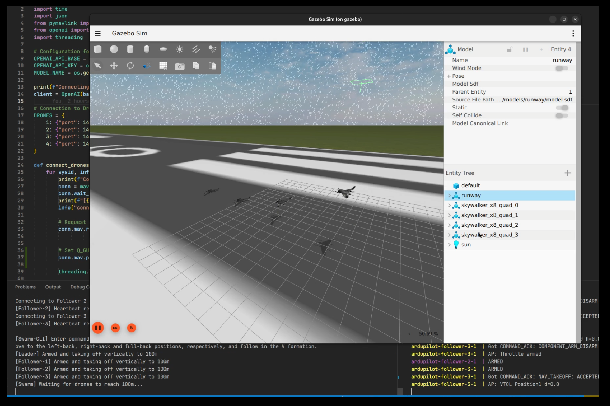
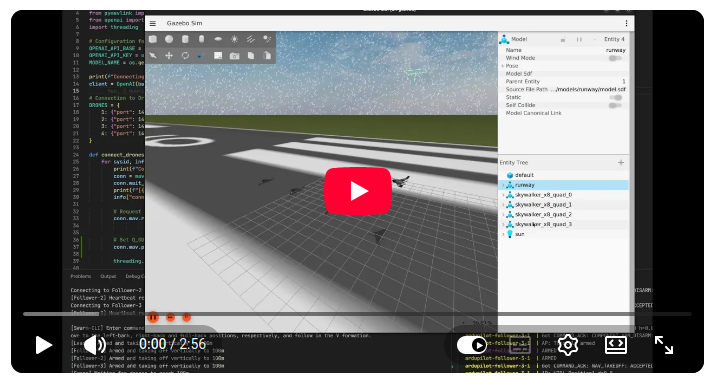
docs: update README with installation commands for dependencies

diff --git a/README.md b/README.md
@@ -24,7 +24,15 @@ Below, only a summary of how to perform the building is provided.
 Run all commands in the host PC. ArduPilot is cross-compiled for T3 Gemstone boards using T3 Gemstone Toolchains. 
 You can select which vehicle you want to compile by changing the `VEHICLE` variable defined inside `Taskfile.yml`.
 
-##### 1. Clone the project
+##### 1. Install Dependencies
+
+```bash
+sudo apt update
+sudo apt install git curl build-essential python3-venv binutils-aarch64-linux-gnu
+./setup.sh
+```
+
+##### 2. Clone the project
 
 ```bash
 git clone https://github.com/t3gemstone/ardupilot
@@ -32,13 +40,20 @@ cd ardupilot
 git submodule update --init --recursive
 ```
 
-##### 2. Install Taskfile
+##### 3. Install Taskfile
+
+```bash
+curl --location https://github.com/go-task/task/releases/download/v3.49.1/task_3.49.1_linux_amd64.deb --output ~/task_3.49.1_linux_amd64.deb
+sudo apt install ~/task_3.49.1_linux_amd64.deb
+```
+
+or
 
 ```bash
 sh -c "$(curl --location https://taskfile.dev/install.sh)" -- -d -b /usr/local/bin
 ```
 
-##### 3. Compile the project
+##### 4. Compile the project
 
 ```bash
 VEHICLE=plane task build
@@ -129,34 +144,6 @@ task sitl-start
 The Docker Compose configuration will automatically pick up the new environment variables and restart the services with
 the updated settings.
 
-### Available Models
-
-| Model                                 | Image                                                                                                                       | SITL_VEHICLE | SITL_FRAME                  | SITL_WORLD                   |
-|---------------------------------------|-----------------------------------------------------------------------------------------------------------------------------|--------------|-----------------------------|------------------------------|
-| **BiCopter**                          | ![BiCopter](https://github.com/ArduPilot/SITL_Models/assets/24916364/0f41a75e-f356-4812-9407-9c19ec6f76a4)                  | ArduCopter   | gazebo-bicopter             | bicopter_runway.sdf          |
-| **Hexapod Copter**                    | ![Hexapod Copter](https://user-images.githubusercontent.com/24916364/225340320-9aa31fe2-4602-4036-ba6b-491f72097c01.jpg)    | ArduCopter   | gazebo-hexapod-copter       | hexapod_copter_runway.sdf    |
-| **Iris Copter**                       | ![Iris Copter](.meta/sitl-models/iris-copter.jpg)                                                                           | ArduCopter   | gazebo-iris                 | iris_runway.sdf              |
-| **Alti Transition QuadPlane**         | ![Alti Transition](https://user-images.githubusercontent.com/24916364/150612555-958a64d4-c434-4f90-94bd-678e6b6011ec.png)   | ArduPlane    | gazebo-alti-transition-quad | alti_transition_runway.sdf   |
-| **SkyCat TVBS QuadPlane**             | ![SkyCat TVBS](https://user-images.githubusercontent.com/24916364/145025150-4e7e48e1-3e83-4c83-be7b-b944db1d9152.png)       | ArduPlane    | gazebo-skycat-tvbs          | skycat_runway.sdf            |
-| **Skywalker X8 Plane**                | ![Skywalker X8](.meta/sitl-models/skywalker-x8-plane.png)      | ArduPlane    | gazebo-skywalker-x8         | skywalker_x8_runway.sdf      |
-| **Skywalker X8 QuadPlane**            | ![Skywalker X8 Quad](https://user-images.githubusercontent.com/24916364/142733947-1a39e963-0aea-4b1b-a57b-85455b2278fe.png) | ArduPlane    | gazebo-skywalker-x8-quad    | skywalker_x8_quad_runway.sdf |
-| **Swan-K1 Tailsitter Quadplane**      | ![Swan-K1](https://user-images.githubusercontent.com/24916364/210408630-01e5f56d-57ba-430e-b04d-62cb8d232527.png)           | ArduPlane    | gazebo-swan-k1-hwing        | swan_k1_hwing_runway.sdf     |
-| **Weight-Shift Plane**                | ![Weight-Shift](https://github.com/NDevDrone/SITL_Models/assets/50757802/9aee8639-d1a1-4807-8118-03f4ccdcc9ff)              | ArduPlane    | gazebo-wsc-aircraft         | wsc_aircraft_runway.sdf      |
-| **X-UAV Mini Talon V-Tail**           | ![Mini Talon V-Tail](https://github.com/user-attachments/assets/44c3e42c-cb3e-4ca9-ba7b-c3e165276917)                       | ArduPlane    | gazebo-mini-talon-vtail     | vtail_runway.sdf             |
-| **Zephyr Plane**                      | ![Zephyr Plane](.meta/sitl-models/zephyr-plane.png)                                                                         | ArduPlane    | gazebo-zephyr               | zephyr_runway.sdf            |
-| **AION R1 Skid-steer Rover**          | ![AION R1](https://github.com/ArduPilot/SITL_Models/assets/24916364/58f25501-5863-423c-a5bd-6c3cbf9612e3)                   | Rover        | gazebo-r1-rover             | r1_rover_runway.sdf          |
-| **Blue Robotics BlueBoat**            | ![BlueBoat](https://github.com/ArduPilot/SITL_Models/assets/24916364/11213e94-9e58-45eb-8181-1cec6c64ee19)                  | Rover        | gazebo-blueboat             | waves.sdf                    |
-| **Catamaran**                         | ![Catamaran](https://github.com/ArduPilot/SITL_Models/assets/24916364/f0a65fc0-f25b-43ea-8690-f7eb979ed455)                 | Rover        | gazebo-catamaran            | catamaran_waves.sdf          |
-| **DAF XF 450 Tractor**                | ![DAF XF 450 Tractor](.meta/sitl-models/daf-xf-450-tractor.png)                       | Rover        | gazebo-daf-xf-450-tractor   | daf_truck_runway.sdf         |
-| **Omni3 Mecanum Rover**               | ![Omni3 Rover](https://github.com/user-attachments/assets/53d5d0bf-e4e3-4f03-a50a-4004a9865309)                             | Rover        | gazebo-omni3rover           | omnirover_playpen.sdf        |
-| **Omni4 Mecanum Rover**               | ![Omni4 Rover](https://github.com/user-attachments/assets/00775e2c-a651-4902-9493-c272687152c0)                             | Rover        | gazebo-omni4rover           | omnirover_playpen.sdf        |
-| **Quadruped Rover**                   | ![Quadruped](https://user-images.githubusercontent.com/24916364/144449710-5bab34b4-dabf-410f-b276-d290ddbb54b2.gif)         | Rover        | gazebo-quadruped            | quadruped_runway.sdf         |
-| **Sawppy Rover**                      | ![Sawppy Rover](https://user-images.githubusercontent.com/24916364/210653579-e635ffc2-2962-4221-83a8-9622915a4121.png)      | Rover        | gazebo-sawppy               | sawppy_playpen.sdf           |
-| **Wild Thumper 6WD Skid-steer Rover** | ![Wild Thumper](https://user-images.githubusercontent.com/24916364/144286154-231ac9b3-e54b-489f-b35e-bc2adb4b1aa0.png)      | Rover        | gazebo-wild-thumper         | wildthumper_runway.sdf       |
-
-Checkout [SITL_Models documentation](https://github.com/ArduPilot/SITL_Models/tree/master/Gazebo/docs) for more
-information about Gazebo models.
-
 # AI Swarm
 
 ArduPilot Gemstone project features an experimental AI-driven Drone Swarm simulation that lets you control a 4-drone ArduPlane (QuadPlane) swarm in Gazebo using natural language commands powered by a local Large Language Model (LLM).
@@ -168,6 +155,7 @@ ArduPilot Gemstone project features an experimental AI-driven Drone Swarm simula
 1. **Start the Swarm Environment**:
    Begin by spinning up the simulation, including 4 ArduPilot SITL instances, Gazebo, QGroundControl, and a local instance of Ollama to host the LLM.
    ```bash
+   newgrp docker
    task swarm-up
    ```
 
@@ -196,3 +184,32 @@ You can view the multi-container docker orchestration logs via:
 ```bash
 task swarm-logs
 ```
+
+
+### Available Models
+
+| Model                                 | Image                                                                                                                       | SITL_VEHICLE | SITL_FRAME                  | SITL_WORLD                   |
+|---------------------------------------|-----------------------------------------------------------------------------------------------------------------------------|--------------|-----------------------------|------------------------------|
+| **BiCopter**                          | ![BiCopter](https://github.com/ArduPilot/SITL_Models/assets/24916364/0f41a75e-f356-4812-9407-9c19ec6f76a4)                  | ArduCopter   | gazebo-bicopter             | bicopter_runway.sdf          |
+| **Hexapod Copter**                    | ![Hexapod Copter](https://user-images.githubusercontent.com/24916364/225340320-9aa31fe2-4602-4036-ba6b-491f72097c01.jpg)    | ArduCopter   | gazebo-hexapod-copter       | hexapod_copter_runway.sdf    |
+| **Iris Copter**                       | ![Iris Copter](.meta/sitl-models/iris-copter.jpg)                                                                           | ArduCopter   | gazebo-iris                 | iris_runway.sdf              |
+| **Alti Transition QuadPlane**         | ![Alti Transition](https://user-images.githubusercontent.com/24916364/150612555-958a64d4-c434-4f90-94bd-678e6b6011ec.png)   | ArduPlane    | gazebo-alti-transition-quad | alti_transition_runway.sdf   |
+| **SkyCat TVBS QuadPlane**             | ![SkyCat TVBS](https://user-images.githubusercontent.com/24916364/145025150-4e7e48e1-3e83-4c83-be7b-b944db1d9152.png)       | ArduPlane    | gazebo-skycat-tvbs          | skycat_runway.sdf            |
+| **Skywalker X8 Plane**                | ![Skywalker X8](.meta/sitl-models/skywalker-x8-plane.png)      | ArduPlane    | gazebo-skywalker-x8         | skywalker_x8_runway.sdf      |
+| **Skywalker X8 QuadPlane**            | ![Skywalker X8 Quad](https://user-images.githubusercontent.com/24916364/142733947-1a39e963-0aea-4b1b-a57b-85455b2278fe.png) | ArduPlane    | gazebo-skywalker-x8-quad    | skywalker_x8_quad_runway.sdf |
+| **Swan-K1 Tailsitter Quadplane**      | ![Swan-K1](https://user-images.githubusercontent.com/24916364/210408630-01e5f56d-57ba-430e-b04d-62cb8d232527.png)           | ArduPlane    | gazebo-swan-k1-hwing        | swan_k1_hwing_runway.sdf     |
+| **Weight-Shift Plane**                | ![Weight-Shift](https://github.com/NDevDrone/SITL_Models/assets/50757802/9aee8639-d1a1-4807-8118-03f4ccdcc9ff)              | ArduPlane    | gazebo-wsc-aircraft         | wsc_aircraft_runway.sdf      |
+| **X-UAV Mini Talon V-Tail**           | ![Mini Talon V-Tail](https://github.com/user-attachments/assets/44c3e42c-cb3e-4ca9-ba7b-c3e165276917)                       | ArduPlane    | gazebo-mini-talon-vtail     | vtail_runway.sdf             |
+| **Zephyr Plane**                      | ![Zephyr Plane](.meta/sitl-models/zephyr-plane.png)                                                                         | ArduPlane    | gazebo-zephyr               | zephyr_runway.sdf            |
+| **AION R1 Skid-steer Rover**          | ![AION R1](https://github.com/ArduPilot/SITL_Models/assets/24916364/58f25501-5863-423c-a5bd-6c3cbf9612e3)                   | Rover        | gazebo-r1-rover             | r1_rover_runway.sdf          |
+| **Blue Robotics BlueBoat**            | ![BlueBoat](https://github.com/ArduPilot/SITL_Models/assets/24916364/11213e94-9e58-45eb-8181-1cec6c64ee19)                  | Rover        | gazebo-blueboat             | waves.sdf                    |
+| **Catamaran**                         | ![Catamaran](https://github.com/ArduPilot/SITL_Models/assets/24916364/f0a65fc0-f25b-43ea-8690-f7eb979ed455)                 | Rover        | gazebo-catamaran            | catamaran_waves.sdf          |
+| **DAF XF 450 Tractor**                | ![DAF XF 450 Tractor](.meta/sitl-models/daf-xf-450-tractor.png)                       | Rover        | gazebo-daf-xf-450-tractor   | daf_truck_runway.sdf         |
+| **Omni3 Mecanum Rover**               | ![Omni3 Rover](https://github.com/user-attachments/assets/53d5d0bf-e4e3-4f03-a50a-4004a9865309)                             | Rover        | gazebo-omni3rover           | omnirover_playpen.sdf        |
+| **Omni4 Mecanum Rover**               | ![Omni4 Rover](https://github.com/user-attachments/assets/00775e2c-a651-4902-9493-c272687152c0)                             | Rover        | gazebo-omni4rover           | omnirover_playpen.sdf        |
+| **Quadruped Rover**                   | ![Quadruped](https://user-images.githubusercontent.com/24916364/144449710-5bab34b4-dabf-410f-b276-d290ddbb54b2.gif)         | Rover        | gazebo-quadruped            | quadruped_runway.sdf         |
+| **Sawppy Rover**                      | ![Sawppy Rover](https://user-images.githubusercontent.com/24916364/210653579-e635ffc2-2962-4221-83a8-9622915a4121.png)      | Rover        | gazebo-sawppy               | sawppy_playpen.sdf           |
+| **Wild Thumper 6WD Skid-steer Rover** | ![Wild Thumper](https://user-images.githubusercontent.com/24916364/144286154-231ac9b3-e54b-489f-b35e-bc2adb4b1aa0.png)      | Rover        | gazebo-wild-thumper         | wildthumper_runway.sdf       |
+
+Checkout [SITL_Models documentation](https://github.com/ArduPilot/SITL_Models/tree/master/Gazebo/docs) for more
+information about Gazebo models.
